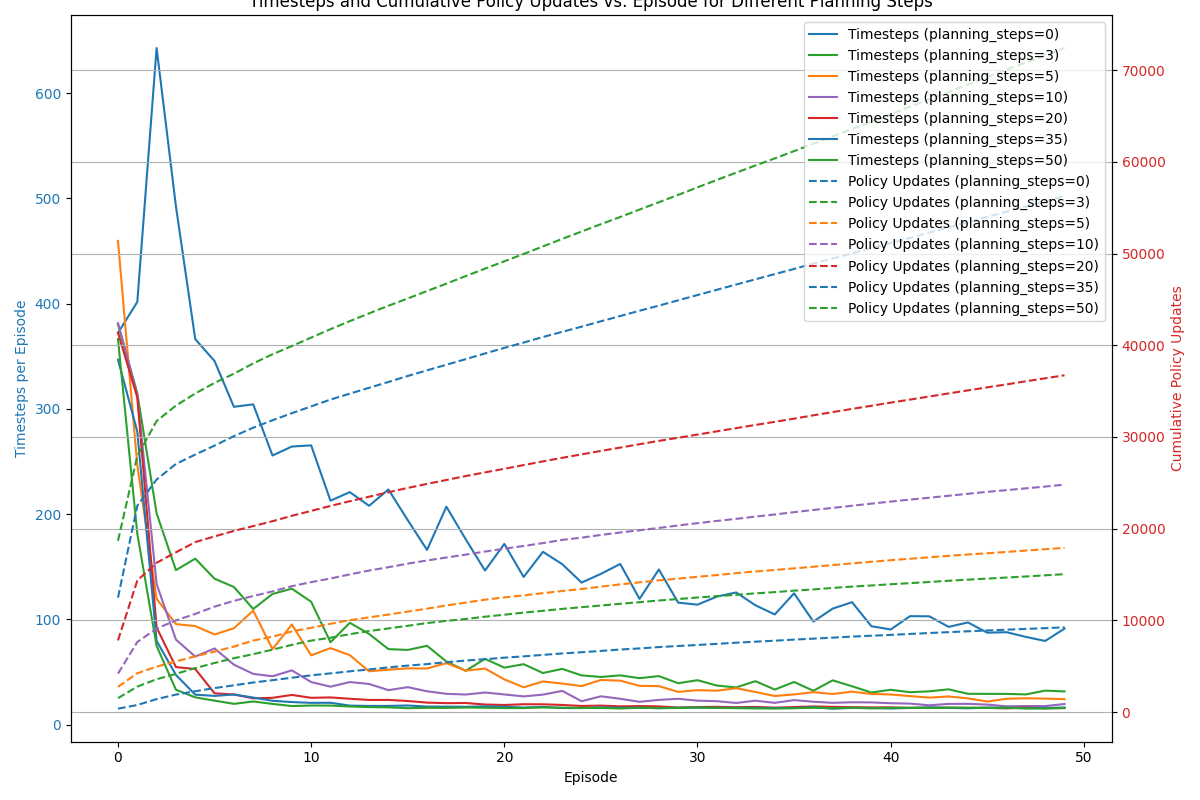
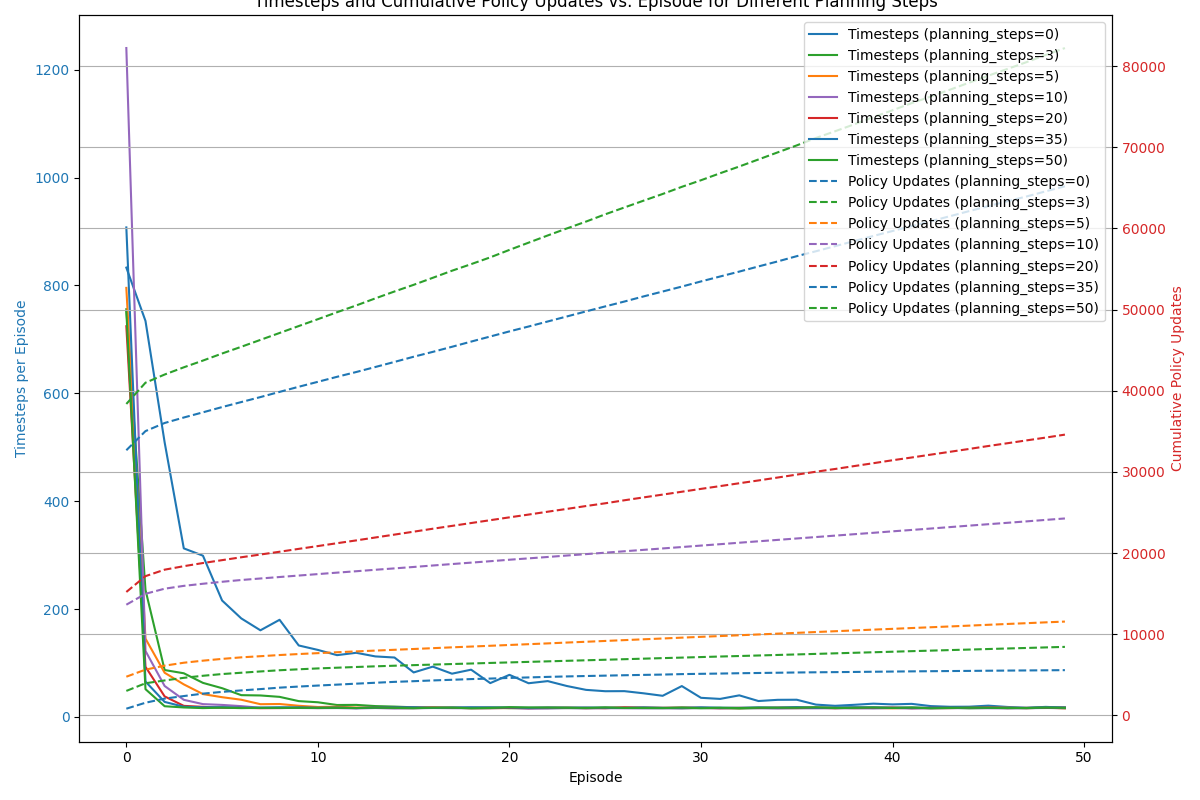
block maze

diff --git a/experiments/block_maze/dyna_q&dyna_q_plus.py b/experiments/block_maze/dyna_q&dyna_q_plus.py
@@ -1,0 +1,147 @@
+"""
+    Use Dyna Q and Dyna Q+ to solve Block Maze
+"""
+import os
+import numpy as np
+import matplotlib.pyplot as plt
+
+from tqdm import tqdm
+from utils.misc_utils import set_seed
+from envs.grid_world import DynamicMaze
+from traditional_algos.planing_and_learning_methods import DynaQ, DynaQPlus
+
+class DynaQWithLogging(DynaQ):
+    def estimation_and_control(self, total_timesteps):
+        self.reset()
+        cumulative_rewards = []
+        total_reward = 0
+        timesteps = 0  # Track total timesteps
+
+        while timesteps < total_timesteps:
+            state, _ = self.env.reset()
+            done = False
+            while not done and timesteps < total_timesteps:
+                action = np.random.choice(np.arange(self.num_action), p=self.policy[state])
+                next_state, reward, terminated, truncated, info = self.env.step(action=action)
+                done = terminated or truncated
+
+                # Update Q function and model
+                self.update_q_function(state, action, reward, next_state)
+                self.model[(state, action)] = (next_state, reward)
+
+                # Update policy
+                self.improve_policy(state=state)
+                
+                # Simulate additional steps
+                self.simulate()
+
+                state = next_state
+                timesteps += 1
+                total_reward += reward  # Accumulate rewards for this episode
+
+                # Record cumulative reward at every timestep
+                cumulative_rewards.append((timesteps, total_reward))
+
+        return cumulative_rewards
+    
+class DynaQPlusWithLogging(DynaQPlus):
+    def estimation_and_control(self, total_timesteps):
+        self.reset()
+        cumulative_rewards = []
+        total_reward = 0
+        timesteps = 0  # Track total timesteps
+
+        while timesteps < total_timesteps:
+            state, _ = self.env.reset()
+            done = False
+            while not done and timesteps < total_timesteps:
+                action = np.random.choice(np.arange(self.num_action), p=self.policy[state])
+                next_state, reward, terminated, truncated, info = self.env.step(action=action)
+                done = terminated or truncated
+
+                # Update Q function and model
+                self.update_q_function(state, action, reward, next_state)
+                self.model[(state, action)] = (next_state, reward)
+
+                # Update policy
+                self.improve_policy(state=state)
+                
+                # Simulate additional steps
+                self.simulate()
+
+                state = next_state
+                timesteps += 1
+                total_reward += reward  # Accumulate rewards for this episode
+
+                # Record cumulative reward at every timestep
+                cumulative_rewards.append((timesteps, total_reward))
+
+        return cumulative_rewards
+
+if __name__ == '__main__':
+    set_seed()
+    log_dir = os.path.dirname(os.path.abspath(__file__))
+
+    ##### Create the Environment and the Agent #####
+    # Block Maze setup
+    height = 6
+    width = 9
+    original_walls = [(3, 0), (3, 1), (3, 2), (3, 3), (3, 4), (3, 5), (3, 6), (3, 7)]  # Initial wall positions
+    new_walls = [(3, 1), (3, 2), (3, 3), (3, 4), (3, 5), (3, 6), (3, 7), (3, 8)]  # Walls after change
+    change_time_step = 1000
+    start_position = (5, 3)
+    goal_position = (0, 8)
+
+    print("The Block Maze environment")
+    env = DynamicMaze(
+        height=height, 
+        width=width, 
+        original_walls=original_walls, 
+        new_walls=new_walls, 
+        change_time_step=change_time_step, 
+        max_episode_length=False, 
+        start_position=start_position, 
+        goal_position=goal_position
+    )
+    env.render()
+
+    ##### Solve the Problem using DynaQ and DynaQPlus #####
+    total_timesteps = 3000  # Set the total timesteps limit
+    num_runs = 5
+
+    agents = {
+        "DynaQ": DynaQWithLogging(env=env, gamma=0.95, epsilon=0.1, alpha=0.1, planning_steps=5),
+        # "DynaQPlus": DynaQPlusWithLogging(env=env, gamma=0.95, epsilon=0.1, alpha=0.1, planning_steps=5)
+    }
+
+    cumulative_rewards_results = {}
+    
+    for agent_name, agent in agents.items():
+        print(f"Running {agent_name}")
+        all_cumulative_rewards = []
+        with tqdm(total=num_runs, desc=f"{agent_name}") as pbar:
+            for _ in range(num_runs):
+                env.reset(reset_timestep=True)
+                cumulative_rewards = agent.estimation_and_control(total_timesteps=total_timesteps)
+                all_cumulative_rewards.extend(cumulative_rewards)  # Accumulate rewards across runs
+                pbar.update(1)
+            
+        cumulative_rewards_results[agent_name] = all_cumulative_rewards
+
+    ##### Plot Cumulative Rewards vs. Total Timesteps for DynaQ and DynaQPlus
+    plt.figure(figsize=(12, 8))
+
+    for agent_name, cumulative_rewards in cumulative_rewards_results.items():
+        timesteps, rewards = zip(*cumulative_rewards)
+        plt.plot(timesteps, rewards, label=agent_name)
+
+    plt.xlabel('Total Timesteps')
+    plt.ylabel('Cumulative Rewards')
+    plt.title('Cumulative Rewards vs. Total Timesteps for DynaQ and DynaQPlus in Block Maze')
+    plt.legend()
+    plt.grid(True)
+
+    # Save and show the plot
+    plot_path = os.path.join(log_dir, 'block_maze_cumulative_rewards_vs_timesteps.png')
+    plt.savefig(plot_path)
+    plt.show()

diff --git a/envs/grid_world/dyna_maze.py b/envs/grid_world/dyna_maze.py
@@ -59,7 +59,7 @@ class DynaMaze(GridWorld):
                         next_state = new_x * self.width + new_y
 
                     terminated = self.is_terminal_state(next_state)
-                    reward = -1  # Constant reward for each step
+                    reward = 1 if terminated else 0
 
                     # Add this transition to the P dictionary
                     P[state][action].append((1.0, next_state, reward, terminated))
@@ -133,12 +133,14 @@ class DynamicMaze(DynaMaze):
         self.change_time_step = change_time_step
         self.timestep = 0  # Track the current time step
 
-    def reset(self):
+    def reset(self, reset_timestep=False):
         """
         Reset the maze to its initial state.
+        Optionally reset the timestep if reset_timestep is True.
         """
-        self.timestep = 0  # Reset time step
-        super().reset()  # Call the parent reset method
+        if reset_timestep:
+            self.timestep = 0  # Reset time step
+        return super().reset()  # Call the parent reset method
 
     def step(self, action):
         """
@@ -149,11 +151,27 @@ class DynamicMaze(DynaMaze):
 
         # If it's time to change the walls, update the maze with new walls
         if self.timestep == self.change_time_step:
-            print(f"Changing walls at timestep {self.timestep}")
+            # print(f"Changing walls at timestep {self.timestep}")
             self.set_walls(self.new_walls)
 
         # Call the parent class's step function
         return super().step(action)
+    
+    def choose_random_state(self):
+        """
+        Choose a random state from the environment's state space, excluding walls and goal state.
+        """
+        all_states = [(x, y) for x in range(self.height) for y in range(self.width) 
+                      if (x, y) not in self.walls and self._xy_to_state((x, y)) not in self.goal_state]
+
+        if not all_states:  # Ensure there are valid states to choose from
+            raise ValueError("No valid states to choose from.")
+
+        # Randomly choose a valid (x, y) position
+        x, y = all_states[np.random.randint(len(all_states))]
+
+        # Use _xy_to_state to convert (x, y) to a state value (integer)
+        return self._xy_to_state((x, y))
 
 
 if __name__ == '__main__':

diff --git a/traditional_algos/planing_and_learning_methods/dyna_q_plus.py b/traditional_algos/planing_and_learning_methods/dyna_q_plus.py
@@ -8,6 +8,8 @@ import gymnasium as gym
 from tqdm import tqdm
 from traditional_algos.planing_and_learning_methods import DynaQ
 
+# TODO: Why timesteps are different in the episode 0?
+
 class DynaQPlus(DynaQ):
     """
         DynaQ+ with an enhanced model, exploration bonus (only in simulations), and untried action consideration
@@ -48,7 +50,7 @@ class DynaQPlus(DynaQ):
                 continue
 
             # Randomly pick a state and action
-            state = np.random.choice(list(self.model.keys()))
+            state = self.env.choose_random_state()
             action = np.random.choice(np.arange(self.num_action))
 
             # Check if this (state, action) pair is in the model, if not initialize it

diff --git a/envs/grid_world/__init__.py b/envs/grid_world/__init__.py
@@ -1,4 +1,4 @@
 from .grid_world import GridWorld
 from .windy_grid_world import WindyGridWorld, WindyGridWorldKingsMoves, WindyGridWorldStochastic, animate_trajectory
 from .corridor_grid_world import CorridorGridWorld
-from .dyna_maze import DynaMaze
+from .dyna_maze import DynaMaze, DynamicMaze

diff --git a/traditional_algos/planing_and_learning_methods/__init__.py b/traditional_algos/planing_and_learning_methods/__init__.py
@@ -1,1 +1,2 @@
 from .dyna_q import DynaQ
+from .dyna_q_plus import DynaQPlus

diff --git a/experiments/block_maze/dyna_q&dyna_q_plus.md b/experiments/block_maze/dyna_q&dyna_q_plus.md
@@ -1,0 +1,1 @@
+TODO: Exercise 8.4 in the RL Book.
